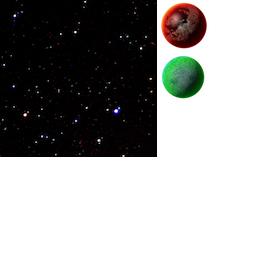
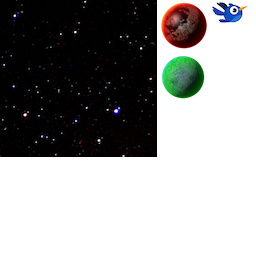
Added a ship

Changed region(s): [[0.8125, 0.0, 0.9688, 0.0938]]

diff --git a/InnerFear/Classes/Game.m b/InnerFear/Classes/Game.m
@@ -6,6 +6,7 @@
 #import "Game.h"
 #import "Background.h"
 #import "Fleet.h"
+#import "Planet.h"
 #import "CenterChangeEvent.h"
 
 // --- private interface ---------------------------------------------------------------------------
@@ -13,7 +14,6 @@
 @interface Game ()
 
 - (void)setup;
-- (void)onResize:(SPResizeEvent *)event;
 
 @end
 
@@ -35,7 +35,9 @@
         self.maxX = 500;
         self.minY = -500;
         self.maxY = 500;
+        self.numberofplanets = 5;
         self.currentcenter = [[SPPoint alloc] init];
+        self.planets = [[NSMutableArray alloc] init];
         [self setup];
     }
     
@@ -46,30 +48,35 @@
 {
     // release any resources here
     [Media releaseAtlas];
-    // [Media releaseSound];
+    [Media releaseSound];
 }
 
 - (void)setup
 {
-    // This is where the code of your game will start.
-    // In this sample, we add just a few simple elements to get a feeling about how it's done.
+    [SPAudioEngine start];  // starts up the sound engine
     
-    //  [SPAudioEngine start];  // starts up the sound engine
-    
-    
-    // The Application contains a very handy "Media" class which loads your texture atlas
-    // and all available sound files automatically. Extend this class as you need it --
-    // that way, you will be able to access your textures and sounds throughout your
-    // application, without duplicating any resources.
     
     [Media initAtlas];      // loads your texture atlas -> see Media.h/Media.m
     //  [Media initSound];      // loads all your sounds    -> see Media.h/Media.m
     
-    
-    
     [self addChild:[[Background alloc] init]];
-    [self addChild:[[Fleet alloc] initWithSide:1]];
-    [self addChild:[[Fleet alloc] initWithSide:2]];
+    self.computer = [[Fleet alloc] initWithSide:2];
+    self.player = [[Fleet alloc] initWithSide:1];
+    
+    for (int i = 0; i < self.numberofplanets; i++)
+    {
+        Planet* playerPlanet = [[Planet alloc] initWithTeam:1];
+        Planet* computerPlanet = [[Planet alloc] initWithTeam:2];
+        
+        [self.planets addObject:playerPlanet];
+        [self.planets addObject:computerPlanet];
+        
+        [self addChild:playerPlanet];
+        [self addChild:computerPlanet];
+    }
+    
+    [self addChild:self.player];
+    [self addChild:self.computer];
     
     // The controller autorotates the game to all supported device orientations.
     // Choose the orienations you want to support in the Xcode Target Settings ("Summary"-tab).
@@ -79,7 +86,7 @@
     // To force the game to start up in landscape, add the key "Initial Interface Orientation"
     // to the "App-Info.plist" file and choose any landscape orientation.
     
-    [self addEventListener:@selector(onResize:) atObject:self forType:SP_EVENT_TYPE_RESIZE];
+ //   [self addEventListener:@selector(onResize:) atObject:self forType:SP_EVENT_TYPE_RESIZE];
     
     [self addEventListener:@selector(onTouch:) atObject:self forType:SP_EVENT_TYPE_TOUCH];
  
@@ -103,7 +110,6 @@
         
         changecenter.change.x = startpoint.x - dp.x;
         changecenter.change.y = startpoint.y - dp.y;
-        
         
         
         if (self.currentcenter.x + changecenter.change.x < self.minX)
@@ -136,19 +142,19 @@
     }
     else if (endTouch) {
         if (!dragging) {
-            NSLog(@"Not Dragging");
+//            NSLog(@"Not Dragging");
         }
         dragging = NO;
     }
 }
-
-- (void)onResize:(SPResizeEvent *)event
-{
-    // NSLog(@"new size: %.0fx%.0f (%@)", event.width, event.height,
-    //     event.isPortrait ? @"portrait" : @"landscape");
-    
-    //   [self updateLocations];
-}
+//
+//- (void)onResize:(SPResizeEvent *)event
+//{
+//    // NSLog(@"new size: %.0fx%.0f (%@)", event.width, event.height,
+//    //     event.isPortrait ? @"portrait" : @"landscape");
+//    
+//    //   [self updateLocations];
+//}
 
 +(Game*) instance
 {

diff --git a/InnerFear/Classes/Fleet.m b/InnerFear/Classes/Fleet.m
@@ -16,7 +16,8 @@
     if ((self = [super init]))
     {
         self.team = team;
-        self.planets = [[NSMutableArray alloc] init];
+        self.currentLoc = [[SPPoint alloc] init];
+
         [self setup];
     }
     return self;
@@ -28,13 +29,15 @@
 }
 
 - (void)setup
-{
-    for (int i = 0; i < 5; i++)
-    {
-        Planet* curplanet =[[Planet alloc] initWithTeam:self.team];
-        [self.planets addObject:curplanet];
-        [self addChild:curplanet];
-    }
+{ 
+    self.shipImage = [[SPImage alloc] initWithTexture:[Media atlasTexture:@"ship"]];
+    
+    self.shipImage.pivotX = self.shipImage.width / 2.0;
+    self.shipImage.pivotY = self.shipImage.height / 2.0;
+    self.shipImage.x = Sparrow.stage.width / 2.0;
+    self.shipImage.y = Sparrow.stage.height / 2.0;
+    [self addChild:self.shipImage];
+
 }
 
 @end

diff --git a/InnerFear/Classes/Planet.m b/InnerFear/Classes/Planet.m
@@ -47,8 +47,8 @@
     Game* g = [Game instance];
     
     self.planetimage = [[SPImage alloc] initWithTexture:[Media atlasTexture:[NSString stringWithFormat:@"planet%d", self.team]]];
-    self.planetimage.pivotX = 0;
-    self.planetimage.pivotY = 0;
+    self.planetimage.pivotX = self.planetimage.width / 2.0;
+    self.planetimage.pivotY = self.planetimage.height / 2.0;
     self.planetimage.x = 0;
     self.planetimage.y = 0;
     [self addChild:self.planetimage];
@@ -87,10 +87,10 @@
     
     if (endTouch) {
         if(self.team == 1) {
-            [self changeTeam:2];
+ //           [self changeTeam:2];
         }
         else {
-            [self changeTeam:1];
+   //         [self changeTeam:1];
         }
     }
 }

diff --git a/InnerFear/Classes/Game.h b/InnerFear/Classes/Game.h
@@ -5,6 +5,7 @@
 
 #import <Foundation/Foundation.h>
 #import <UIKit/UIDevice.h>
+#import "Fleet.h"
 
 #define EVENT_TYPE_NEW_CENTER_TRIGGERED @"newCenterLocationTriggered"
 
@@ -13,6 +14,11 @@
 + (Game*) instance;
 
 @property (nonatomic, retain) SPPoint* currentcenter;
+@property (nonatomic, retain) Fleet* player;
+@property (nonatomic, retain) Fleet* computer;
+@property (nonatomic, assign) int numberofplanets;
+
+@property (nonatomic, retain) NSMutableArray* planets;
 
 @property (nonatomic, assign) int minX;
 @property (nonatomic, assign) int maxX;

diff --git a/InnerFear/Classes/Fleet.h b/InnerFear/Classes/Fleet.h
@@ -11,7 +11,10 @@
 @interface Fleet : SPSprite
 
 @property (nonatomic, retain) NSMutableArray* planets;
+@property (nonatomic, retain) SPImage* shipImage;
 @property (nonatomic, assign) int team;
+@property (nonatomic, retain) SPPoint* currentLoc;
+
 
 - (id)initWithSide: (int) team;
 - (void)setup;
